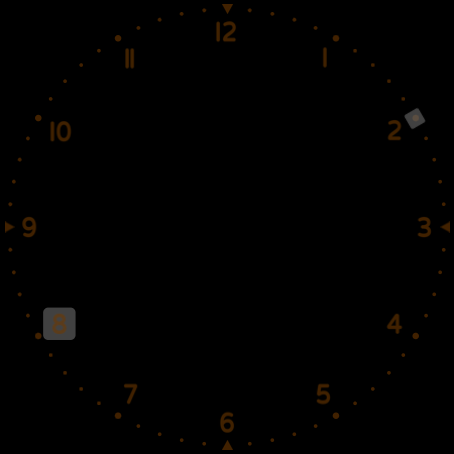
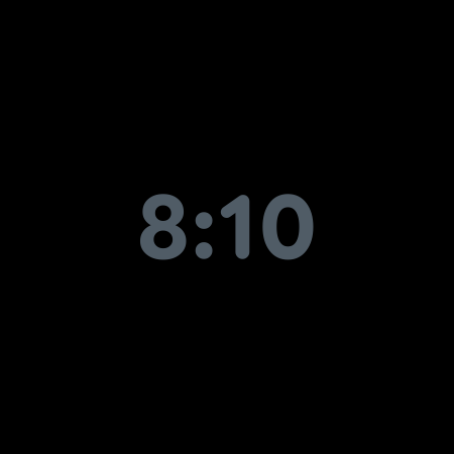
Update the pictures and the picker preview; version 1.0.1
The README's pictures and the watch face picker's preview are now
emulator captures of Night Digital's test build (awake and always-on),
in place of Night Dial's.

diff --git a/README.md b/README.md
@@ -13,9 +13,10 @@ It is built with the [Watch Face Format](https://developer.android.com/training/
 </p>
 
 *The Wear OS 7 emulator. Left: the test build (`./build.sh test`) at its fixed time of
-8:10:18, with its sample readings (72°F and clear, UV 7, 80% battery, 23 hours left, 8,250
-steps, 1,850 calories, 8,250 ft, a heart rate of 72, Friday the 20th of March). Right:
-always-on mode.*
+8:10:18, with its sample readings (72°F and clear, a low of 58° and a high of 79°, UV 7, 80%
+battery, 23 hours left, 8,250 steps, 1,850 calories, 8,250 ft, a heart rate of 72, Friday the
+20th of March), in the default soft sky readings color. Right: always-on mode, the time
+alone.*
 
 ## The face
 
